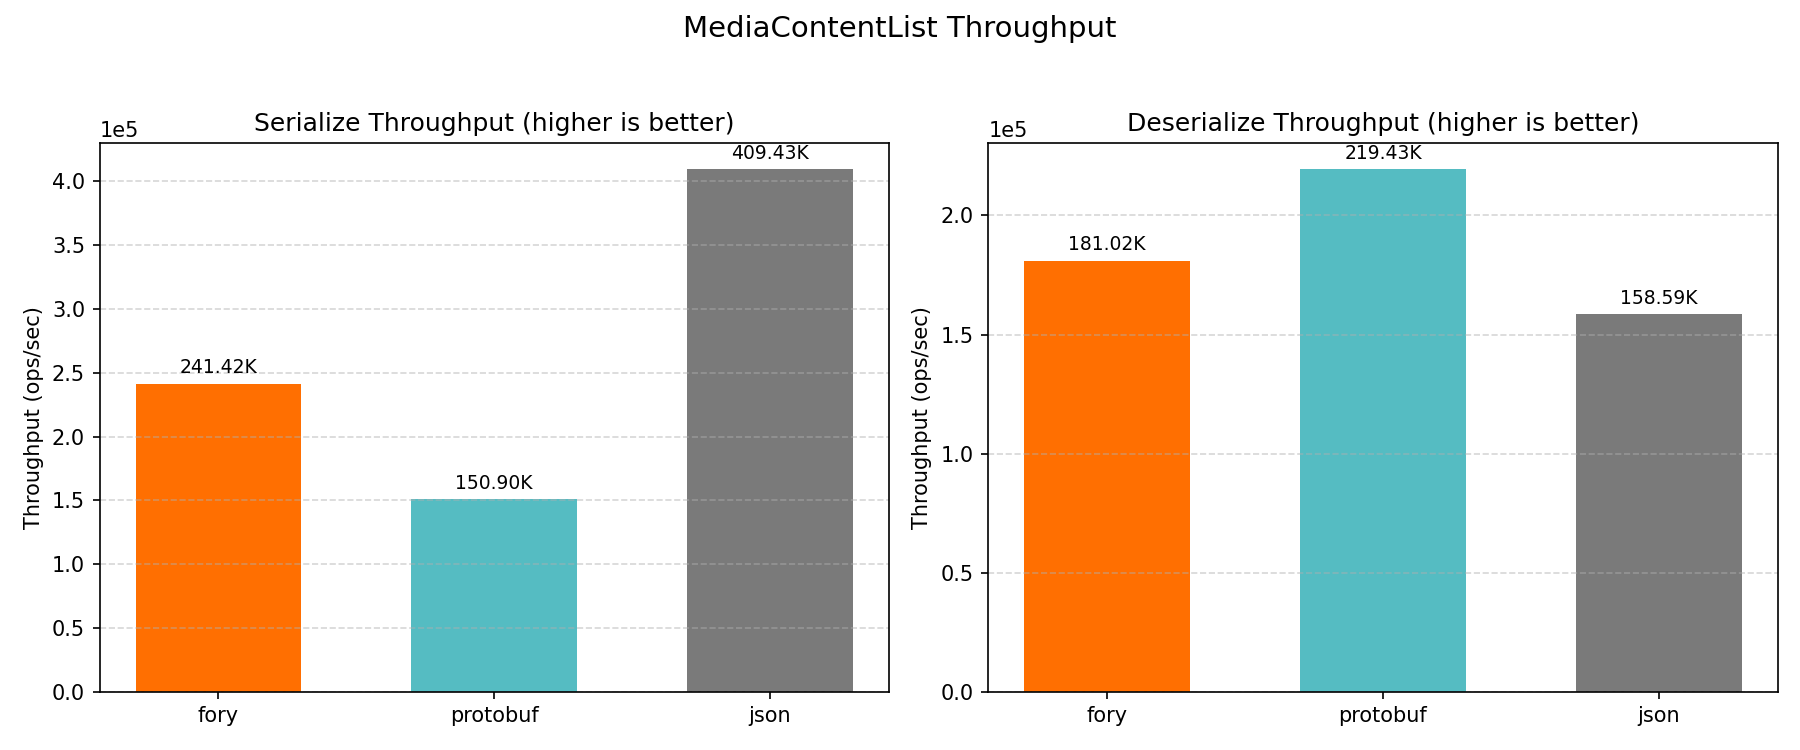
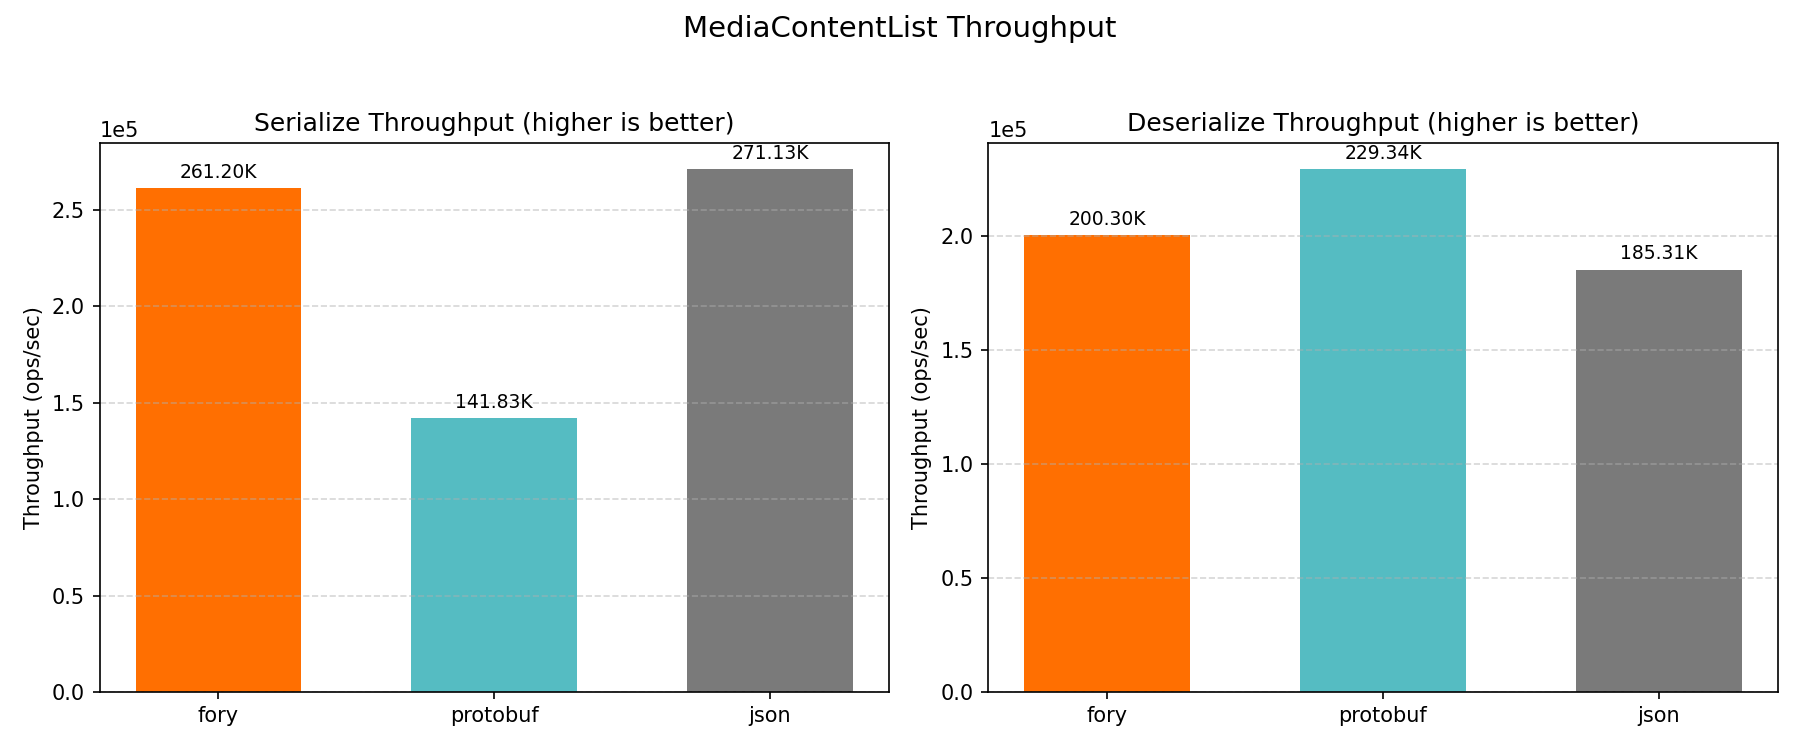
update js benchmark

diff --git a/docs/benchmarks/javascript/README.md b/docs/benchmarks/javascript/README.md
@@ -1,6 +1,6 @@
 # JavaScript Benchmark Performance Report
 
-_Generated on 2026-04-14 14:56:11_
+_Generated on 2026-04-14 15:32:27_
 
 ## How to Generate This Report
 
@@ -19,10 +19,10 @@ cd benchmarks/javascript
 | CPU Cores (Physical)       | 12                       |
 | CPU Cores (Logical)        | 12                       |
 | Total RAM (GB)             | 48.0                     |
-| Benchmark Date             | 2026-04-14T06:50:56.546Z |
+| Benchmark Date             | 2026-04-14T07:30:36.278Z |
 | CPU Cores (from benchmark) | 12                       |
-| Node.js                    | v25.8.1                  |
-| V8                         | 14.1.146.11-node.21      |
+| Node.js                    | v22.20.0                 |
+| V8                         | 12.4.254.21-node.33      |
 
 ## Benchmark Plots
 
@@ -62,35 +62,35 @@ All class-level plots below show throughput (ops/sec).
 
 | Datatype         | Operation   | fory (ns) | protobuf (ns) | json (ns) | Fastest  |
 | ---------------- | ----------- | --------- | ------------- | --------- | -------- |
-| Struct           | Serialize   | 113.4     | 434.5         | 88.4      | json     |
-| Struct           | Deserialize | 220.6     | 113.7         | 261.4     | protobuf |
-| Sample           | Serialize   | 692.7     | 2154.4        | 596.4     | json     |
-| Sample           | Deserialize | 1139.3    | 1218.0        | 1392.9    | fory     |
-| MediaContent     | Serialize   | 875.3     | 1340.1        | 563.8     | json     |
-| MediaContent     | Deserialize | 1385.8    | 900.9         | 1188.0    | protobuf |
-| StructList       | Serialize   | 359.1     | 1581.4        | 426.1     | fory     |
-| StructList       | Deserialize | 488.9     | 639.2         | 1042.4    | fory     |
-| SampleList       | Serialize   | 3340.3    | 8725.7        | 2834.2    | json     |
-| SampleList       | Deserialize | 3816.0    | 5796.2        | 5848.5    | fory     |
-| MediaContentList | Serialize   | 4142.2    | 6626.7        | 2442.4    | json     |
-| MediaContentList | Deserialize | 5524.2    | 4557.2        | 6305.6    | protobuf |
+| Struct           | Serialize   | 106.8     | 535.1         | 332.4     | fory     |
+| Struct           | Deserialize | 124.8     | 130.5         | 266.8     | fory     |
+| Sample           | Serialize   | 628.6     | 2394.6        | 1378.8    | fory     |
+| Sample           | Deserialize | 679.7     | 1232.9        | 1418.1    | fory     |
+| MediaContent     | Serialize   | 848.8     | 1416.7        | 786.4     | json     |
+| MediaContent     | Deserialize | 1074.5    | 819.8         | 1118.3    | protobuf |
+| StructList       | Serialize   | 317.1     | 2072.9        | 1140.1    | fory     |
+| StructList       | Deserialize | 413.2     | 728.5         | 1080.2    | fory     |
+| SampleList       | Serialize   | 2983.5    | 9541.6        | 6226.3    | fory     |
+| SampleList       | Deserialize | 3128.0    | 6236.3        | 6321.1    | fory     |
+| MediaContentList | Serialize   | 3828.5    | 7050.9        | 3688.2    | json     |
+| MediaContentList | Deserialize | 4992.5    | 4360.3        | 5396.4    | protobuf |
 
 ### Throughput Results (ops/sec)
 
-| Datatype         | Operation   | fory TPS  | protobuf TPS | json TPS   | Fastest  |
-| ---------------- | ----------- | --------- | ------------ | ---------- | -------- |
-| Struct           | Serialize   | 8,815,859 | 2,301,627    | 11,309,688 | json     |
-| Struct           | Deserialize | 4,532,327 | 8,793,358    | 3,825,292  | protobuf |
-| Sample           | Serialize   | 1,443,696 | 464,162      | 1,676,750  | json     |
-| Sample           | Deserialize | 877,718   | 821,027      | 717,930    | fory     |
-| MediaContent     | Serialize   | 1,142,472 | 746,194      | 1,773,606  | json     |
-| MediaContent     | Deserialize | 721,615   | 1,109,944    | 841,732    | protobuf |
-| StructList       | Serialize   | 2,785,094 | 632,345      | 2,346,856  | fory     |
-| StructList       | Deserialize | 2,045,390 | 1,564,335    | 959,342    | fory     |
-| SampleList       | Serialize   | 299,376   | 114,603      | 352,832    | json     |
-| SampleList       | Deserialize | 262,051   | 172,528      | 170,985    | fory     |
-| MediaContentList | Serialize   | 241,415   | 150,904      | 409,430    | json     |
-| MediaContentList | Deserialize | 181,020   | 219,434      | 158,590    | protobuf |
+| Datatype         | Operation   | fory TPS  | protobuf TPS | json TPS  | Fastest  |
+| ---------------- | ----------- | --------- | ------------ | --------- | -------- |
+| Struct           | Serialize   | 9,366,643 | 1,868,870    | 3,008,589 | fory     |
+| Struct           | Deserialize | 8,012,212 | 7,661,344    | 3,748,390 | fory     |
+| Sample           | Serialize   | 1,590,714 | 417,612      | 725,249   | fory     |
+| Sample           | Deserialize | 1,471,175 | 811,093      | 705,147   | fory     |
+| MediaContent     | Serialize   | 1,178,111 | 705,890      | 1,271,668 | json     |
+| MediaContent     | Deserialize | 930,701   | 1,219,807    | 894,205   | protobuf |
+| StructList       | Serialize   | 3,153,309 | 482,413      | 877,109   | fory     |
+| StructList       | Deserialize | 2,420,060 | 1,372,723    | 925,751   | fory     |
+| SampleList       | Serialize   | 335,172   | 104,804      | 160,610   | fory     |
+| SampleList       | Deserialize | 319,696   | 160,351      | 158,199   | fory     |
+| MediaContentList | Serialize   | 261,198   | 141,826      | 271,133   | json     |
+| MediaContentList | Deserialize | 200,301   | 229,342      | 185,308   | protobuf |
 
 ### Serialized Data Sizes (bytes)
 
